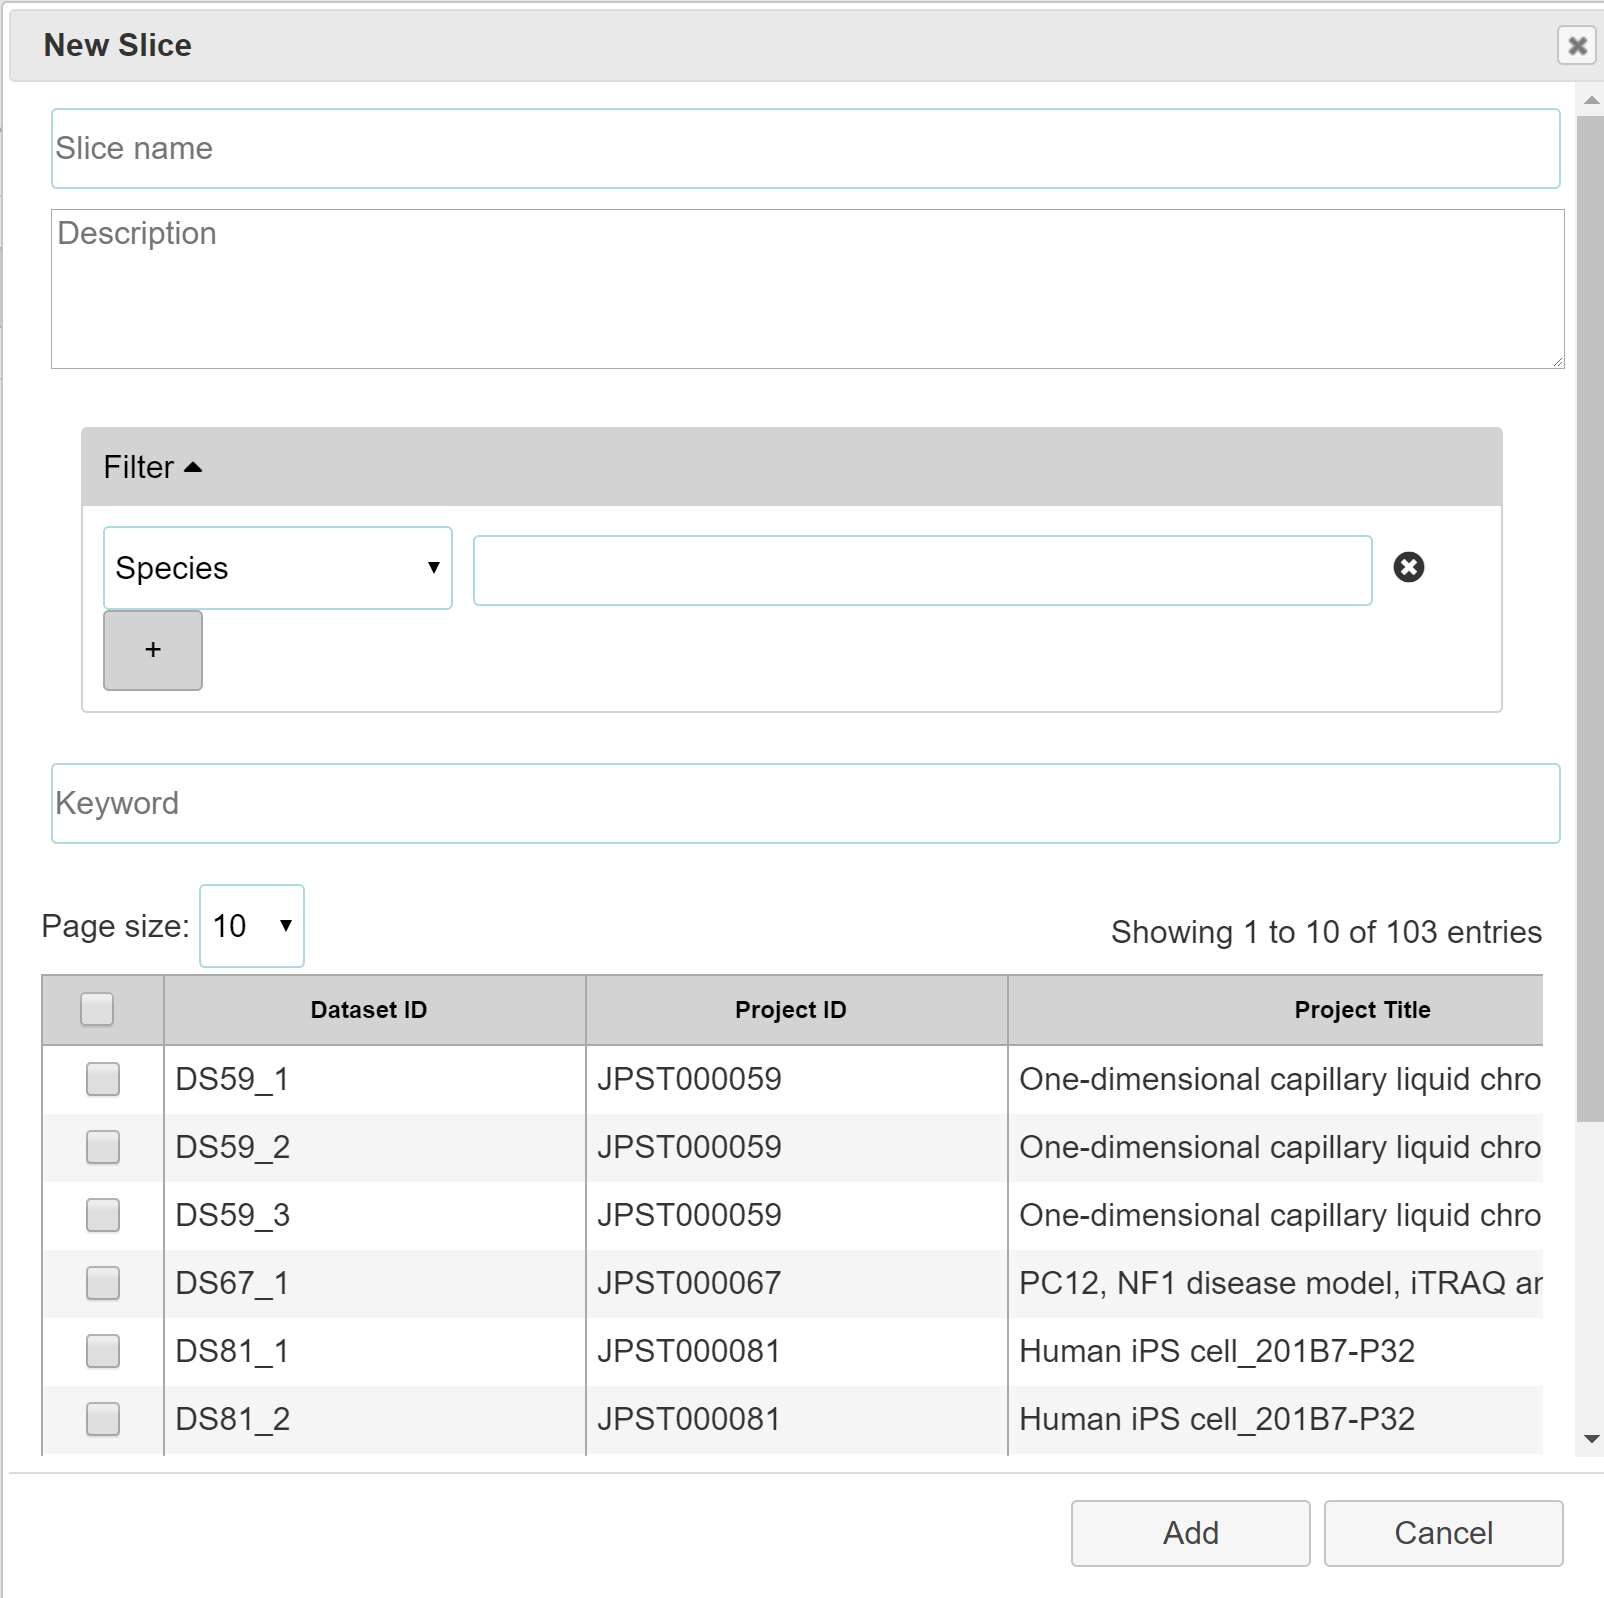
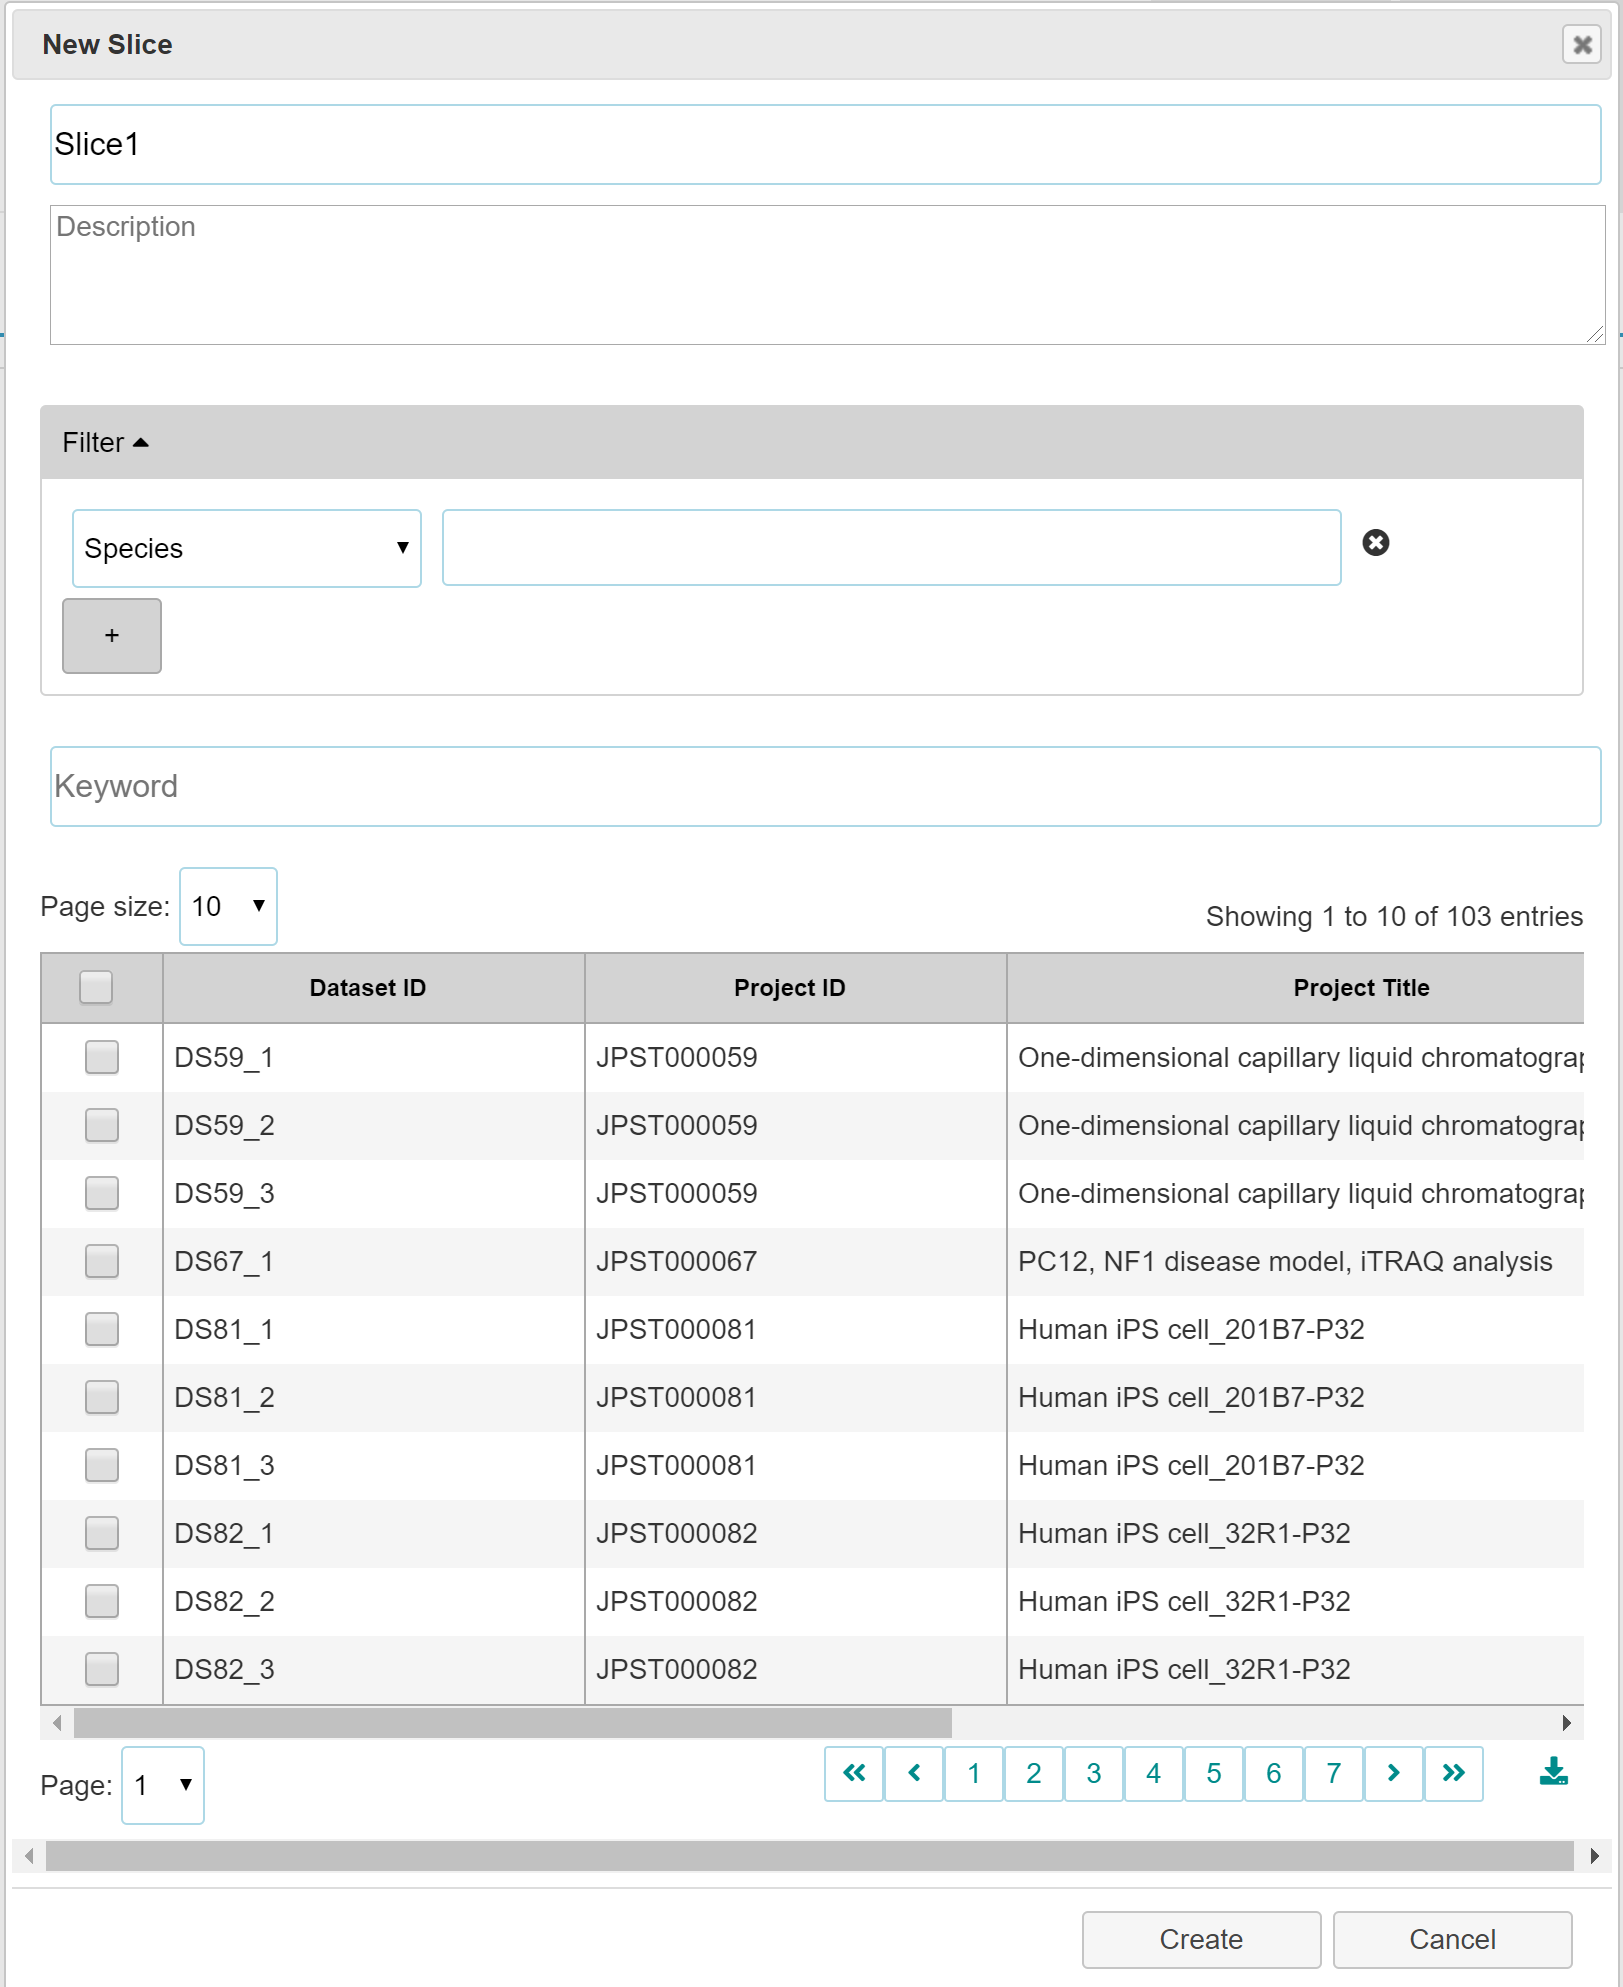
adding peptide page and updated help.

Changed region(s): [[0.0, 0.0, 1.0, 1.0]]

diff --git a/templates/peptide_detail.html b/templates/peptide_detail.html
@@ -1,0 +1,73 @@
+<div>
+  <script>
+    jpost.slice = jpost.findSliceByName( '{{ slice }}' );
+    var id = null;
+    var peptide = null;
+    var tax = null;    
+  </script>
+  {% if slice %}
+    <div class="slice_header">Slice: {{ slice }}</div>
+  {% endif %}
+
+  {% if id %}
+    <h2>Peptide: {{ id }}</h2>
+    <script>
+        id = '{{ id }}';
+    </script>
+  {% else %}
+    <h2>Peptide: tax={{ tax }}, sequence={{ peptide }}</h2>
+    <script>
+        tax = '{{ tax }}';
+        peptide = '{{ peptide }}';
+    </script>
+  {% endif %}
+
+  <div id="table_peptide"></div>
+      
+  <div id="information_pane">
+    <div class="tab_buttons_line">
+      <button id="peptide_psm_tab_button" class="peptide_tab_button tab_button tab_active psm_table_tab_button">PSM</button>
+      <script>
+        $( '#peptide_psm_tab_button' ).click( 
+            function() {
+                jpost.changeTabPanel( 'peptide_psm', 'peptide' );
+            }
+        );
+      </script>
+      <button class="fill_blank"></button>
+      <div style="clear: both;"></div>
+    </div>
+    <div id="peptide_psm_tab_pane" class="tab_pane peptide_tab_pane">
+      <form id="psm_form" onsubmit="return false;">
+        <div id="peptide_psms" class="information_table"></div>
+      </form>
+    </div>
+  </div>  
+</div>
+      
+      <script>
+          var stanzas = [
+              {
+                  name: 'table_peptide',
+                  id: 'table_peptide',
+                  data: function() {
+                      var data = {};
+                      if( id != null ) {
+                          data[ 'peptide' ] = id;
+                      }
+                      else {
+                          data[ 'peptide' ] = peptide;
+                          data[ 'tax' ] = tax;
+                      }
+                      if( jpost.slice !== null ) {
+                          data[ 'dataset' ] = jpost.slice.datasets.join( ' ' );
+                      }
+                      console.log( data );
+                      return data;
+                  }
+              }
+          ];   
+          jpost.loadStanzas( stanzas );
+          jpost.createPeptidePsmTable( 'peptide_psms', id, peptide, tax );
+      </script>
+      

diff --git a/templates/peptide.html b/templates/peptide.html
@@ -1,0 +1,53 @@
+<!DOCTYPE html>
+
+<html>
+  {{ include( "head.html" ) }}
+  <body>
+    <header class="header">
+      <div class="header_inner">
+        <div class="header_left">
+          <a href="https://jpostdb.org/" class="header_logo">
+            <img src="images/logo.svg" width="100" height="100" />
+            <h1 class="header_title">DATABASE</h1>
+          </a>
+        </div>
+        <div class="header_right">
+          <nav class="header_nav">
+            <ul class="header_nav_main">
+              <li><a href="javascript:jpost.openTab( 'search' )" class="top_menu"><span class="fa fa-search"></span><br>Search</a></li>
+              <li><a href="javascript:jpost.openTab( 'slice' )" class="top_menu"><span class="fa fa-chart-area"></span><br>Slice</a></li>
+              <li><a href="javascript:jpost.openTab( 'compare' )" class="top_menu"><span class="fa fa-copy"></span><br>Compare</a></li>
+              <li><a href="javascript:jpost.openTab( 'help' )" class="top_menu"><span class="fa fa-question"></span><br>Help</a></li>
+            </ul>
+          </nav>
+        </div>
+      </div>
+    </header>
+    <article class="main">
+      <div class="component main">
+        <div id="search_panel" class="main_tab_field">
+          <div id="main_search_panel">
+            {{ include( "search.html" ) }}
+          </div>
+        </div>
+        <div id="slice_panel" class="main_tab_field">
+          {{ include( "slice.html" ) }}
+        </div>
+        <div id="compare_panel" class="main_tab_field">
+          {{ include( "compare.html" ) }}
+        </div>
+        <div id="help_panel" class="main_tab_field">
+          {{ include( "help.html" ) }}
+        </div>
+        <div id="etc_panel" class="main_tab_field">
+         {{ include( "peptide_detail.html") }}
+        </div>
+      </div>
+    </article>
+    <script>
+      jpost.openTab( 'etc' );
+    </script>
+    {{ include( "footer.html" ) }}
+    {{ include( "dialogs.html" ) }}
+  </body>
+</html>

diff --git a/js/jpost-global.js b/js/jpost-global.js
@@ -567,3 +567,52 @@ jpost.createProteinPsmTable = function( id, protein ) {
         true
     );
 }
+
+// create peptide psm table
+jpost.createPeptidePsmTable = function( id, peptide, sequence, tax ) {
+    if( sequence != null ) {
+        jpost.createPsmTableFromSequence( id, sequence, tax );
+    }
+    else {
+        $.ajax(
+            {
+                url: 'peptide_info.php',
+                type: 'GET',
+                dataType: 'json',
+                data: {
+                    id: peptide
+                }
+            }
+        ).then(
+            function( result ) {
+                jpost.createPsmTableFromSequence( id, result.sequence, null );
+            }
+        );
+    }
+}
+
+// create PSM table from sequnce
+jpost.createPsmTableFromSequence = function( id, sequence, tax ) {
+    table.createTable(
+        id,
+        {
+            url: 'psm_table.php',
+            columns: jpost.globalPsmColumns,
+            parameters: function() {
+                var data = { peptides: sequence };
+                if( tax != null ) {
+                    data[ 'tax' ] = tax;
+                }
+                if( jpost.slice != null ) {
+                    data[ 'datasets' ] = jpost.slice.datasets;
+                }
+                return data;                
+            },
+            countClass: 'psm_table_tab_button',
+            countUpdate: function( count ) {
+                return 'PSM (' + count + ')';
+            }
+        },
+        true
+    );
+}

diff --git a/templates/stanza.html b/templates/stanza.html
@@ -7,7 +7,7 @@
     <script src="https://cdn.jsdelivr.net/combine/npm/@babel/polyfill@7.2.5/dist/polyfill.min.js,npm/@ungap/url-search-params@0.1.2/min.js,npm/whatwg-fetch@3.0.0/dist/fetch.umd.js" crossorigin></script>
     <script src="https://cdn.jsdelivr.net/npm/@webcomponents/webcomponentsjs@1.3.0/webcomponents-loader.js" crossorigin></script>
     <link href="{{ service }}/stanza/{{ stanza }}/" rel="import">
-    <link href="{{ service }}/stanza/assets/css/ts.css/" rel="import">
+
 
   </head>
   <body>
@@ -16,5 +16,18 @@
       {{ attribute.key }}="{{ attribute.value }}"
 {% endfor %}
     ></togostanza-{{ stanza }}>
+    <script>
+      const stanza = document.querySelector('togostanza-table_protein');
+      const inputs = document.querySelectorAll('.showcase_id input');
+
+      Array.prototype.forEach.call(inputs, function(input) {
+        const onParamChange = function() {
+          stanza.setAttribute(input.dataset.paramKey, input.value);
+        };
+
+        input.addEventListener('input', onParamChange);
+        onParamChange();
+      });
+    </script>  
   </body>
 </html>

diff --git a/templates/help.html b/templates/help.html
@@ -67,7 +67,7 @@ ul.nodeco {
     <ul>
       <li>Click "New Slice" button in the Serch tab or "+" button in the Slice tab.</li>
       <li>Select check box(es) your interested dataset(s).</li>
-      <li>Click "Add" button.</li>
+      <li>Click "Create" button.</li>
       <li>Because the Slice data is stored in WebStorage of your browser, your data is never leaked to the Internet. The different browser in your computer does not share WebStorage. So, you need to export and import the Slice to observe the same datasets in the different location (the different browser).</li>
     </ul>
   </li>

diff --git a/templates/protein_detail.html b/templates/protein_detail.html
@@ -1,7 +1,6 @@
 <div>
   <script>
     jpost.slice = jpost.findSliceByName( '{{ slice }}' );
-    console.log( jpost.slice );
   </script>
   {% if slice %}
     <div class="slice_header">Slice: {{ slice }}</div>

diff --git a/classes/SparqlTool.php b/classes/SparqlTool.php
@@ -3,6 +3,24 @@
 
     class SparqlTool {
         public static function postSparqlist( $url, $parameters ) {
+            $data = self::post( $url, $parameters );
+
+            $keys = $data[ 'head' ][ 'vars' ];
+            $bindings = $data[ 'results' ][ 'bindings' ];
+
+            $array = array();
+
+            foreach( $bindings as $element ) {
+                $object = array();
+                foreach( $keys as $key ) {
+                    $object[ $key ] = $element[ $key ] [ 'value' ];
+                }
+                array_push( $array, $object );
+            }
+            return $array;
+        }
+
+        public static function post( $url, $parameters ) {
             if( $parameters === null ) {
                 $parameters = array();
             }
@@ -17,19 +35,7 @@
             $contents = file_get_contents( $url2, false, stream_context_create( $options ) );
 
             $data = json_decode( $contents, true );
-            $keys = $data[ 'head' ][ 'vars' ];
-            $bindings = $data[ 'results' ][ 'bindings' ];
-
-            $array = array();
-
-            foreach( $bindings as $element ) {
-                $object = array();
-                foreach( $keys as $key ) {
-                    $object[ $key ] = $element[ $key ] [ 'value' ];
-                }
-                array_push( $array, $object );
-            }
-            return $array;
+            return $data;
         }
     }
 ?>

diff --git a/peptide.php b/peptide.php
@@ -1,1 +1,15 @@
-peptide
+<?php
+    require_once __DIR__ . '/classes/HtmlTool.php';
+    $id = HtmlTool::getParameter( 'id' );
+    $slice = HtmlTool::getParameter( 'slice' );
+    $peptide = HtmlTool::getParameter( 'peptide' );
+    $tax = HtmlTool::getParameter( 'tax' );
+    $params = array(
+        'id' => $id,
+        'page' => 'peptide',
+        'slice' => $slice,
+        'peptide' => $peptide,
+        'tax' => $tax
+    );
+    HtmlTool::render( 'peptide.html', $params );
+?>

diff --git a/peptide_info.php b/peptide_info.php
@@ -1,0 +1,12 @@
+<?php
+    require_once( __DIR__ . '/classes/SparqlTool.php' );
+    require_once( __DIR__ . '/classes/HtmlTool.php' );
+    require_once( __DIR__ . '/classes/Config.php' );
+
+    $id = HtmlTool::getId();
+    $url = Config::$SPARQLIST_URL . 'table_items_peptide';
+    $result = SparqlTool::post( $url, array( 'peptide' => $id ) );
+
+    header( 'content-type: application/json; charset=utf-8' );
+    echo json_encode( $result );
+?>
